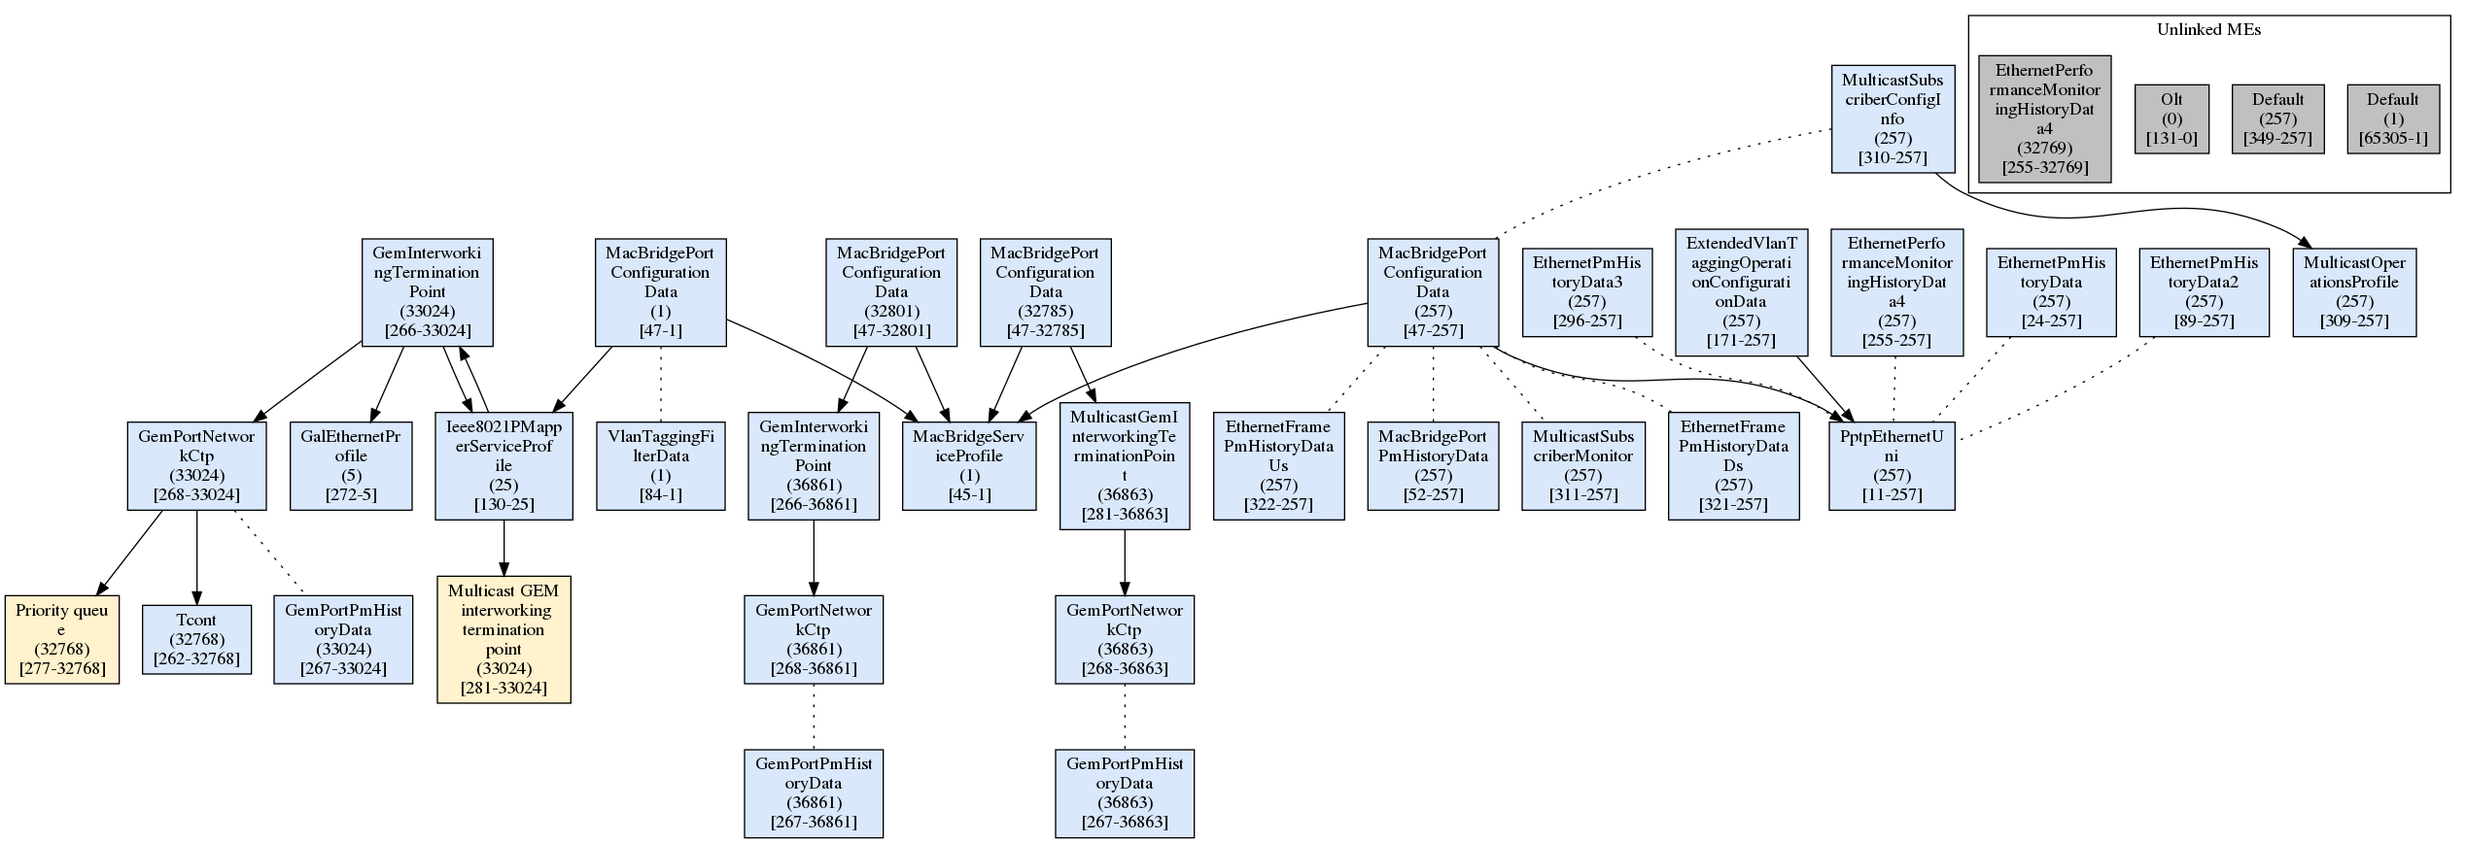
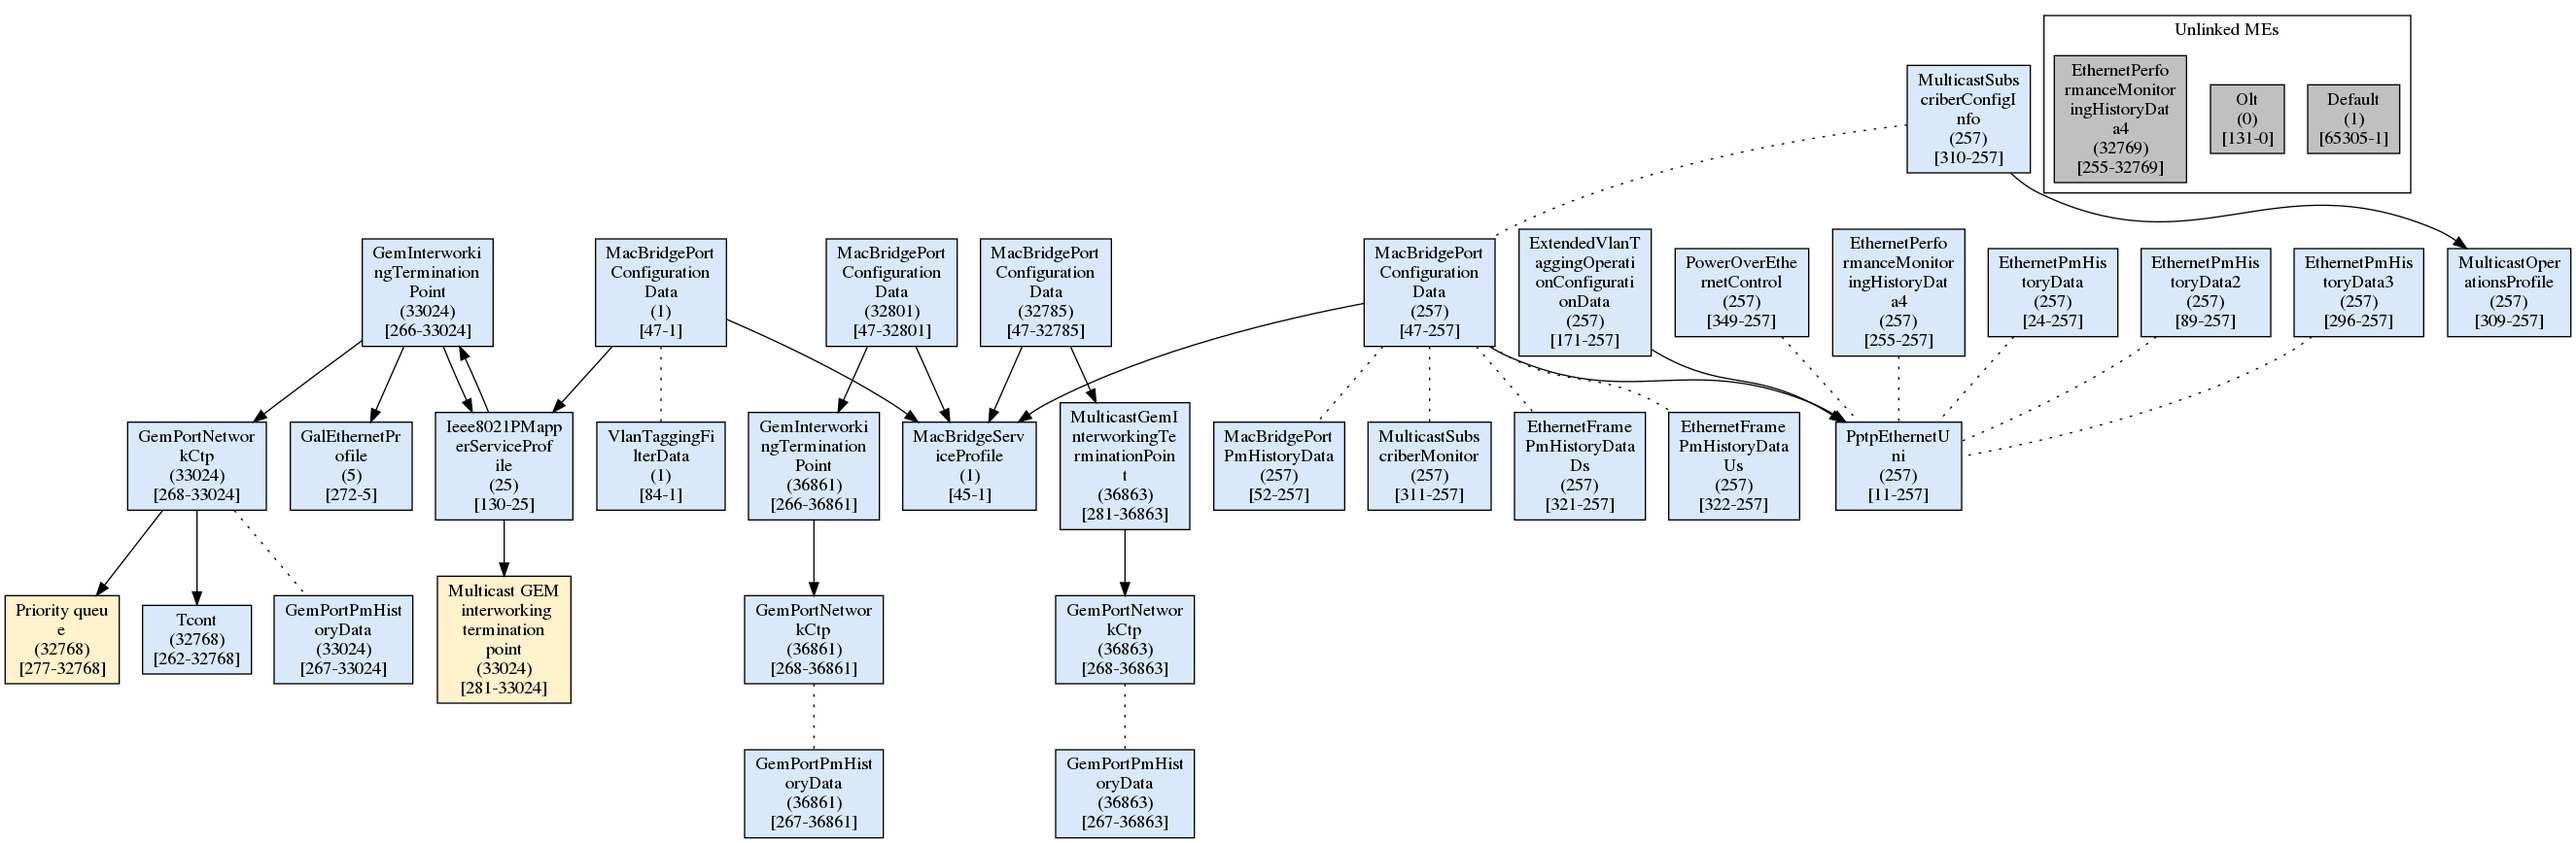
Add PoE Control ME on base

diff --git a/utils/me_base.py b/utils/me_base.py
@@ -119,6 +119,7 @@ class ManagedEntity:
         329: "Virtual Ethernet interface point",
         340: "BBF TR",
         341: "GEM port network CTP performance monitoring history data",
+        349: "Power over Ethernet control",
         65303: "PPPoE INTELBRAS OLT 8820i 110Gi",
         65320: "Wan Extended Config FH",
         65321: "WAN Profile File FH",
@@ -2787,6 +2788,48 @@ class GemPortNetworkCtpPerformanceMonitoringHistoryData(ManagedEntity):
         self.threshold_data_id_pointer.setPointer([273])
 
 
+class PowerOverEthernetControl(ManagedEntity):
+    def __init__(self, instance):
+        ManagedEntity.__init__(self, 349, instance)
+        self.name = "PowerOverEthernetControl"
+        self.imp_link = [11]
+        self.poe_capabilities = MeAttribute("PoE capabilities", 2, False, True, MeAttribute.READ_PERMISSION, None)
+        self.power_pair_pinout_control = MeAttribute("Power pair pinout control", 1, False, True, MeAttribute.READ_WRITE_PERMISSION, None)
+        self.operational_state = MeAttribute("Operational state", 1, False, True, MeAttribute.READ_PERMISSION, None)
+        self.power_detection_status = MeAttribute("Power detection status", 1, False, True, MeAttribute.READ_PERMISSION, None)
+        self.power_classification_status = MeAttribute("Power classification status", 1, False, False, MeAttribute.READ_PERMISSION, None)
+        self.power_priority = MeAttribute("Power priority", 1, False, False, MeAttribute.READ_WRITE_PERMISSION, None)
+        self.invalid_signature_counter = MeAttribute("Invalid signature counter", 2, False, False, MeAttribute.READ_PERMISSION, None)
+        self.power_denied_counter = MeAttribute("Power denied counter", 2, False, False, MeAttribute.READ_PERMISSION, None)
+        self.overload_counter = MeAttribute("Overload counter", 2, False, False, MeAttribute.READ_PERMISSION, None)
+        self.short_counter = MeAttribute("Short counter", 2, False, False, MeAttribute.READ_PERMISSION, None)
+        self.mps_absent_counter = MeAttribute("MPS absent counter", 2, False, False, MeAttribute.READ_PERMISSION, None)
+        self.pse_class_control = MeAttribute("PsE class control", 1, False, False, MeAttribute.READ_WRITE_PERMISSION, None)
+        self.current_power_consumption = MeAttribute("Current Power Consumption", 4, False, False, MeAttribute.READ_PERMISSION, None)
+
+        self.attributes = (
+            self.poe_capabilities,
+            self.power_pair_pinout_control,
+            self.operational_state,
+            self.power_detection_status,
+            self.power_classification_status,
+            self.power_priority,
+            self.invalid_signature_counter,
+            self.power_denied_counter,
+            self.overload_counter,
+            self.short_counter,
+            self.mps_absent_counter,
+            self.pse_class_control,
+            self.current_power_consumption,
+        )
+
+    def getImplicitlyLinked(self):
+        return self.imp_link
+
+    def setPointers(self):
+        pass
+
+
 class PppoeIntelbrasOlt8820I110Gi(ManagedEntity):
     def __init__(self, instance):
         ManagedEntity.__init__(self, 65303, instance)
@@ -3393,6 +3436,8 @@ class MeTranslate:
             return BbfTr(inst)
         elif me == 341:
             return GemPortNetworkCtpPerformanceMonitoringHistoryData(inst)
+        elif me == 349:
+            return PowerOverEthernetControl(inst)
         elif me == 65303:
             return PppoeIntelbrasOlt8820I110Gi(inst)
         elif me == 65320:
